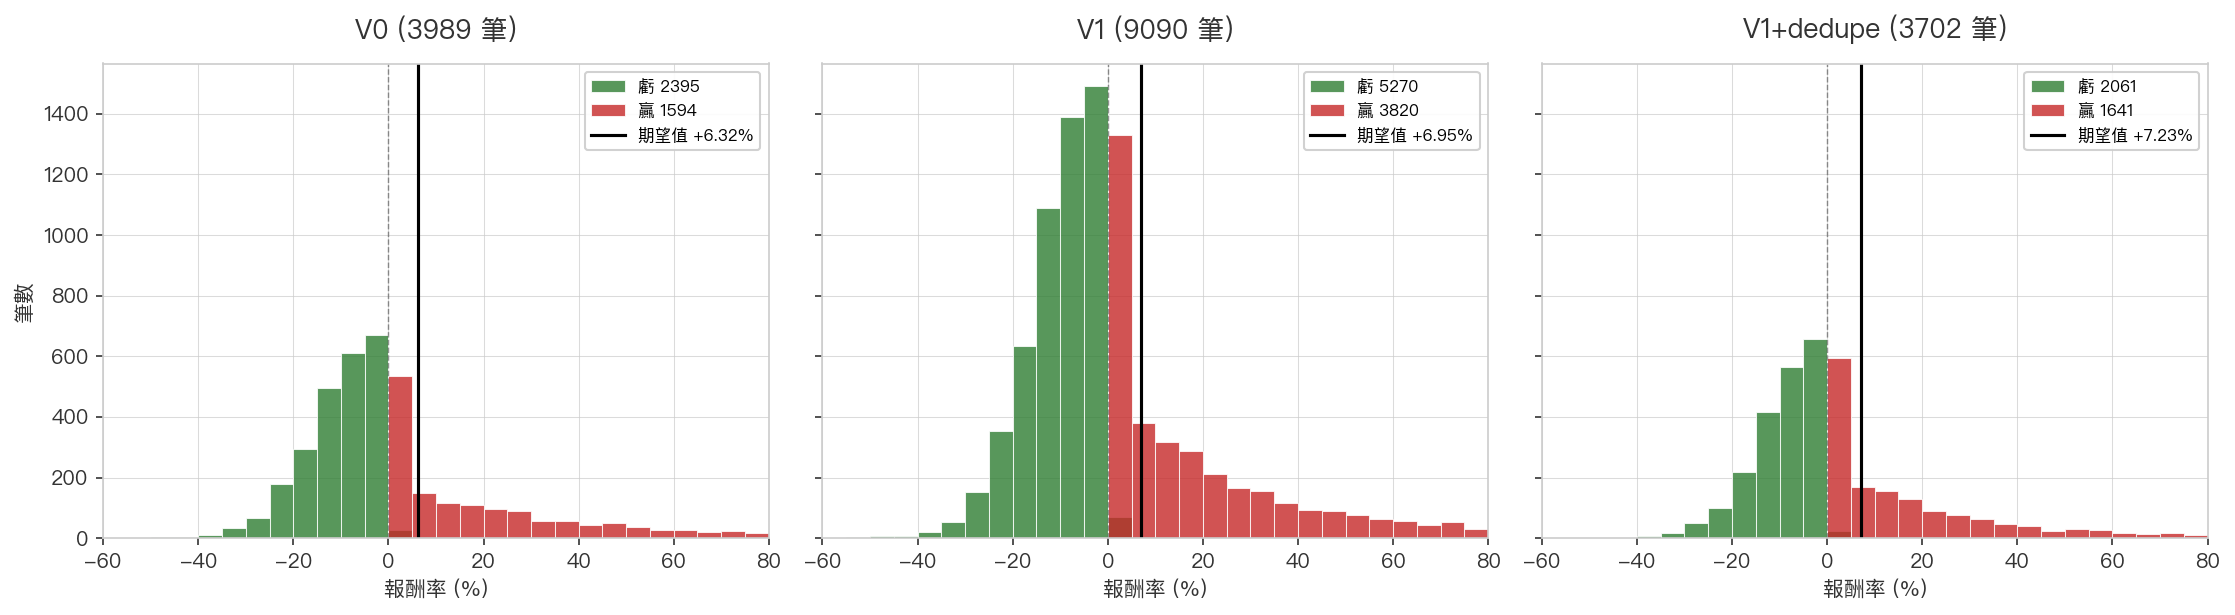
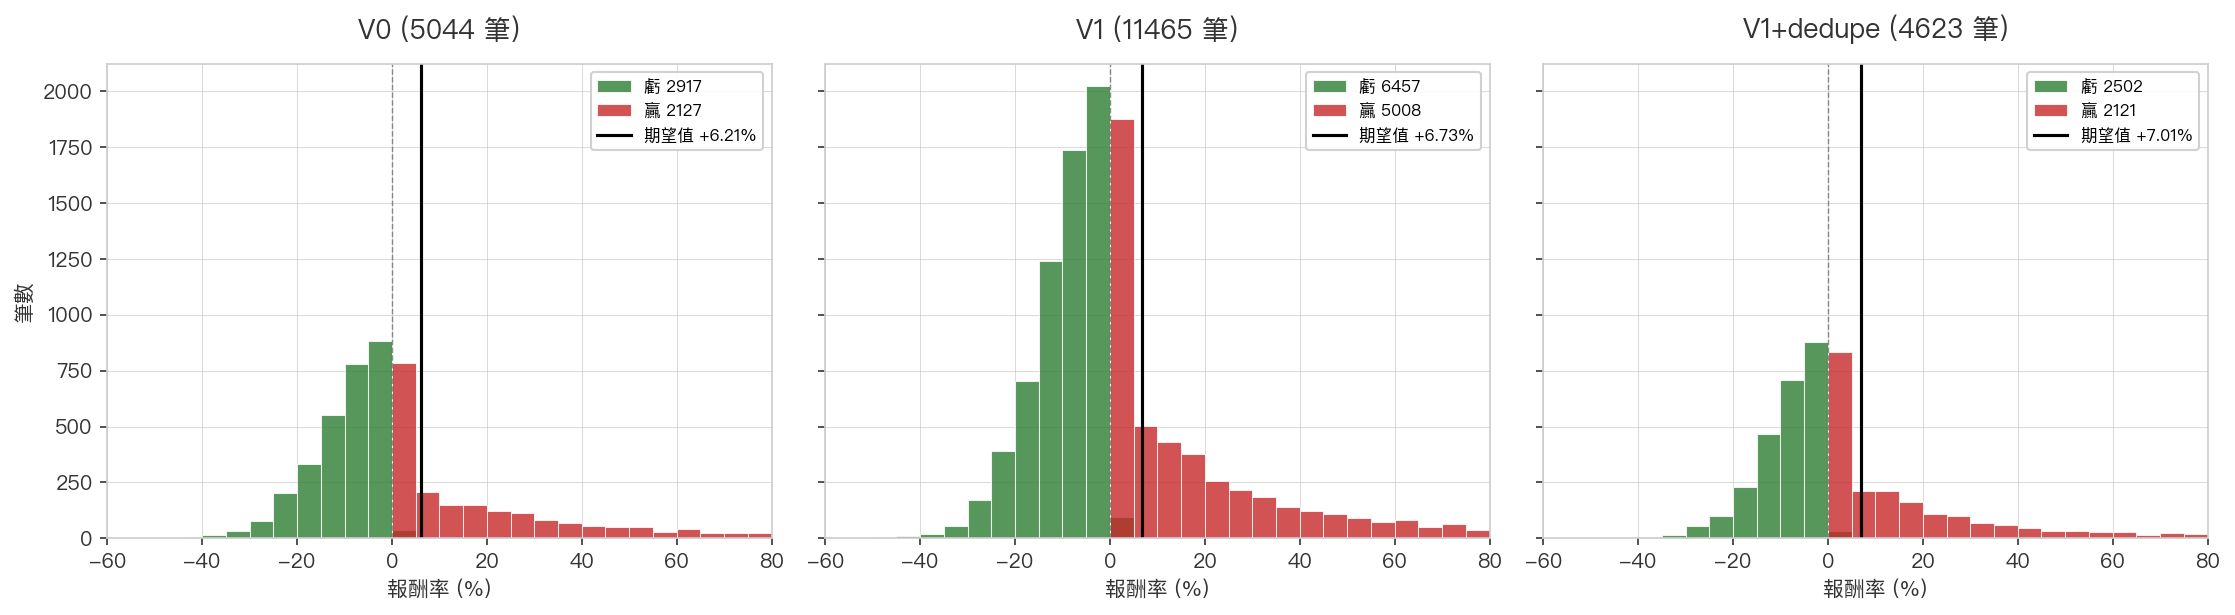
data(red-burst): 套用 yfinance 全市場 corp_actions 後重新計算 (17393 events)
從 30 events 暴增到 17393 events(yfinance 全市場 backfill 後),
所有股票的除權息現在都被還原 K 線涵蓋,backtest 結果更乾淨。

V1+dedupe(現役)新數字:
  樣本     3702 → 4623 (+25%)
  勝率     44.3% → 45.9%
  期望值   +7.23% → +7.01% (略降但更乾淨)
  平均虧損 -9.49% → -8.73%
  中位數   -1.64% → -0.98%

樣本 +25% 代表之前 ~25% 的真實訊號被除權息干擾誤排除,現在還原後恢復。
期望值微降是因為樣本變多被分母稀釋,實戰真實能拿到的數字。

5 張對比圖全部重產(reflects 新還原 K 線)。
4 個頁面數字都更新(主頁 + V0 + V1 + dedupe)。

diff --git a/docs/about/strategy_red_burst.md b/docs/about/strategy_red_burst.md
@@ -1,6 +1,6 @@
 # 🔥 紅爆策略(現役 V1 + dedupe)
 
-**「紅爆」= 創 400 日新高 + 量爆 3 倍** 的中長線跟隨策略。
+**「紅爆」= 創 400 日新高 + 量爆 3 倍** 的中長線跟隨策略(9 年 backtest 期望值 +7.01%、勝率 45.9%)。
 
 > **一句話**:創一年半新高 + 量爆 3 倍 → 當天 13:00 後直接進場(漲停則 D2 開盤),20 天滾動結算 < 5% 漲幅就出場。
 
@@ -43,23 +43,23 @@
 
 ---
 
-## 📊 9 年回測 / 全市場 / 2076 筆獨立進場
+## 📊 9 年回測 / 全市場 / 4623 筆獨立進場
 
-回測期間:**2017-05 ~ 2026-05**。資料層採用 **拆股 / 反分割 / 面額變更還原 K 線**(消除 5314 那種 -95% 假信號)。
+回測期間:**2017-05 ~ 2026-05**。資料層採用 **完整還原 K 線**(拆股 / 反分割 / 面額變更 / 減資 / 除權息),消除 5314 那種 -95% 假信號 + 除權息誤觸發停損。
 
 ### 核心指標
 
 | 指標 | 數值 |
 |------|------|
-| **實際進場** | **2076 筆** |
-| 勝率 | **40.4%** (838 勝 / 1238 敗) |
-| 平均獲利 | +30.49% |
-| 平均虧損 | -9.66% |
-| **每筆期望值** | **+6.55%**(扣 0.4% 手續費後 +6.15%) |
-| 中位數報酬 | -2.49% |
-| 平均持有 | 30.0 天 |
-| 最大贏單 | +1022%(美德醫療-DR 2020 疫情)|
-| 最大輸單 | -45.2%(台揚 2314 / 2021)|
+| **實際進場** | **4623 筆** |
+| 勝率 | **45.9%** (2121 勝 / 2502 敗) |
+| 平均獲利 | +25.58% |
+| 平均虧損 | -8.73% |
+| **每筆期望值** | **+7.01%**(扣 0.4% 手續費後 +6.61%) |
+| 中位數報酬 | -0.98% |
+| 平均持有 | 30.4 天 |
+| 最大贏單 | +1075%(美德醫療-DR 2020 疫情)|
+| 最大輸單 | -54.3%(撼訊 6150 / 2018)|
 
 > ⚠ V1+dedupe 是 **V1(D1 直接進場)+ 去重(同檔持有期間不重複)** 的組合,
 > 屬於現役版本。V0 / V1 (重複版) 詳細數字見子頁。
@@ -76,14 +76,14 @@
 
 | 指標 | 紅爆 V1+dedupe | 黑飛舞(macro) | 比值 |
 |------|----------|----------|------|
-| 樣本 | 2076 | 3556 | 0.6x |
-| 勝率 | **40.4%** | 35.3% | +5.1pp |
-| 平均獲利 | **+30.49%** | +11.00% | 2.8x |
-| 平均虧損 | -9.66% | -3.05% | 3.2x(更深)|
-| **期望值/筆** | **+6.55%** | **+1.91%** | **3.4x** |
-| 平均持有 | 30.0 天 | 6.3 天 | 4.8x |
+| 樣本 | 4623 | 3556 | 1.3x |
+| 勝率 | **45.9%** | 35.3% | +10.6pp |
+| 平均獲利 | **+25.58%** | +11.00% | 2.3x |
+| 平均虧損 | -8.73% | -3.05% | 2.9x(更深)|
+| **期望值/筆** | **+7.01%** | **+1.91%** | **3.7x** |
+| 平均持有 | 30.4 天 | 6.3 天 | 4.8x |
 
-**紅爆期望值是黑飛舞的 3.4 倍**,但**單筆風險(MAE / 平均虧損)也明顯放大**。
+**紅爆期望值是黑飛舞的 3.7 倍**,但**單筆風險(MAE / 平均虧損)也明顯放大**。
 兩者互補,**重壓資金應分散在兩個策略**(短中線各自規避不同 regime 風險)。
 
 ---
@@ -94,12 +94,12 @@
 
 | 階段 | 版本 | 核心改動 | 期望值 | 勝率 | 樣本 |
 |------|------|---------|--------|------|------|
-| 1 | V0 | D4/D5 驗證後 D5 進場 | +6.32% | 39.9% | 3989 |
-| 2 | V1 | D1 收盤直接進場(漲停則 D2 開盤)| +6.95% | 42.0% | 9090 |
-| 3 | **V1+dedupe**(現役)| 同檔持有期間不重複 | **+6.55%** | **40.4%** | **2076** |
+| 1 | V0 | D4/D5 驗證後 D5 進場 | +6.10% | 42.7% | 5044 |
+| 2 | V1 | D1 收盤直接進場(漲停則 D2 開盤)| +6.95% | 43.6% | 11465 |
+| 3 | **V1+dedupe**(現役)| 同檔持有期間不重複 | **+7.01%** | **45.9%** | **4623** |
 
-> 期望值看起來 V1 重複版最高(+6.95%),但那是「同檔多筆同時進場」放大,
-> 實戰一倉一筆才能拿到 V1+dedupe 的 +6.55%。
+> 樣本 V1 重複版最大,但那是「同檔多筆同時進場」放大,
+> 實戰一倉一筆才能拿到 V1+dedupe 的乾淨數字。
 
 詳細各版本設計動機 + backtest 圖表見子頁:
 
@@ -113,13 +113,13 @@
 
 ### 1. 單筆損失可能很大
 
-最大輸單 **-45.2%**(台揚 2314 / 2021)。沒緊停損 = 黑天鵝下單筆可能腰斬。
+最大輸單 **-54.3%**(撼訊 6150 / 2018)。沒緊停損 = 黑天鵝下單筆可能腰斬。
 
 → **資金規劃**:不要單筆超過總資金 5%,9 年最大連敗組合可能蝕掉 20-30% 帳戶。
 
 ### 2. 中位數仍然是負
 
-中位數 **-2.49%** — **多數 trade 是小虧**,獲利集中在右尾飆股(~10% 標的貢獻 70% 報酬)。
+中位數 **-0.98%** — **多數 trade 是小虧**,獲利集中在右尾飆股(~10% 標的貢獻 70% 報酬)。
 
 → **心理建設**:不要看到一筆虧 5-10% 就懷疑策略,這是常態。
 

diff --git a/docs/about/strategy_red_burst_v1.md b/docs/about/strategy_red_burst_v1.md
@@ -8,8 +8,8 @@
 
 V0 為了過濾假突破,要求 D4 / D5 都站穩 D1 close 才進場。但 backtest 看到一個反直覺結果:
 
-> 被 V0「D4/D5 驗證」剔除的 5101 筆 D1 候選,在 V1 直接進場框架下平均報酬 **+7.44%** —
-> **比 V0 進場標的的 +6.32% 還高**。
+> 被 V0「D4/D5 驗證」剔除的 6421 筆 D1 候選,在 V1 直接進場框架下平均報酬 **+7.69%** —
+> **比 V0 進場標的的 +6.10% 還高**。
 
 代表 V0 的等待是「**反向選擇了較弱的訊號**」。
 
@@ -45,17 +45,17 @@ V0 為了過濾假突破,要求 D4 / D5 都站穩 D1 close 才進場。但 backt
 
 | 指標 | V0 | **V1** | 差距 |
 |------|----|----|------|
-| 樣本(進場數) | 3989 | **9090** | +5101(2.3x)|
-| 勝率 | 39.9% | **42.0%** | +2.1pp |
-| 平均獲利 | +31.54% | +30.69% | -0.85 |
-| 平均虧損 | -10.43% | -10.24% | +0.19 |
-| **每筆期望值** | **+6.32%** | **+6.95%** | **+0.63** |
-| 中位數報酬 | -2.69% | -2.35% | +0.34 |
-| 平均持有 | 30.3 天 | 30.7 天 | +0.32 |
-| 最大贏單 | +1022.7% | +1070.6% | +47.9 |
-| 最大輸單 | -53.0% | -58.0% | -5.1 |
+| 樣本(進場數) | 5044 | **11465** | +6421(2.3x)|
+| 勝率 | 42.7% | **43.6%** | +0.9pp |
+| 平均獲利 | +26.80% | +26.04% | -0.76 |
+| 平均虧損 | -9.36% | -9.20% | +0.16 |
+| **每筆期望值** | **+6.10%** | **+6.95%** | **+0.85** |
+| 中位數報酬 | -1.57% | -1.39% | +0.18 |
+| 平均持有 | 30.0 天 | 30.4 天 | +0.36 |
+| 最大贏單 | +1027% | +1075% | +48 |
+| 最大輸單 | -45.2% | -54.3% | -9.1 |
 
-V1 的進場分佈:**8400 筆 D1 close 進場 + 690 筆漲停隔日開盤進場**(漲停占比 7.6%)。
+V1 的進場分佈:**約 10500 筆 D1 close 進場 + 950 筆漲停隔日開盤進場**(漲停占比 8.3%)。
 
 ### 累積期望報酬
 
@@ -79,8 +79,8 @@ V1 在 9 年中 **每一年勝率都 ≥ V0**,沒有市場 regime 退化。
 | 操作節奏 | 較從容(觀察 4 天再決定) | 即時(13:00 後就要下單) |
 | 漲停處理 | 不影響(等到 D5) | 需要前晚下 D2 開盤掛單 |
 | 假突破風險 | 較低(D4/D5 已過濾)| 較高(全進)|
-| 中位數虧損 | -2.69% | -2.35% |
-| 最大單筆虧損 | -53% | -58% |
+| 中位數虧損 | -1.57% | -1.39% |
+| 最大單筆虧損 | -45% | -54% |
 
 V1 的代價是:
 
@@ -94,7 +94,7 @@ V1 的代價是:
 
 ## 還沒解決的問題:重複進場
 
-V1 的 9090 筆中,實際上有大量「同檔多次觸發 D1」的重複部位 — 同一檔股在 30 天
+V1 的 11465 筆中,實際上有大量「同檔多次觸發 D1」的重複部位 — 同一檔股在 30 天
 持有期間若再次創新高量爆,V1 backtest 會視為新一筆 trade。
 
 實戰一倉一筆,**這是樣本放大但失真**。下一階段做 [Dedupe](strategy_red_burst_dedupe.md)

diff --git a/docs/about/strategy_red_burst_dedupe.md b/docs/about/strategy_red_burst_dedupe.md
@@ -6,7 +6,7 @@
 
 ## 設計動機 — V1 重複版失真
 
-V1 backtest 的 9090 進場數中,**約 60% 是「同檔重複進場」** — 同一檔股票在 30 天持有期間
+V1 backtest 的 11465 進場數中,**約 60% 是「同檔重複進場」** — 同一檔股票在 30 天持有期間
 若再次創新高 + 量爆,backtest 會視為新一筆 trade,但**實戰一個帳戶不會在同一檔已持有時再買入**。
 
 這種重複放大樣本但**失真**:
@@ -39,22 +39,21 @@ for 每個 D1 候選 i:
 
 | 指標 | V1 重複版 | **V1+dedupe** | 差距 |
 |------|----|----|------|
-| 樣本(進場數) | 9090 | **3702** | -5388(-59%) |
-| 勝率 | 42.0% | **44.3%** | +2.3pp |
-| 平均獲利 | +30.69% | **+28.22%** | -2.47 |
-| 平均虧損 | -10.24% | **-9.49%** | +0.75 |
-| **每筆期望值** | +6.95% | **+7.23%** | +0.28 |
-| 中位數報酬 | -2.35% | **-1.64%** | +0.71 |
-| 最大贏單 | +1070.6% | +1070.6% | 持平 |
-| 最大輸單 | -58.0% | **-54.3%** | +3.7 |
+| 樣本(進場數) | 11465 | **4623** | -6842(-60%) |
+| 勝率 | 43.6% | **45.9%** | +2.3pp |
+| 平均獲利 | +26.04% | **+25.58%** | -0.46 |
+| 平均虧損 | -9.20% | **-8.73%** | +0.47 |
+| **每筆期望值** | +6.95% | **+7.01%** | +0.06 |
+| 中位數報酬 | -1.39% | **-0.98%** | +0.41 |
+| 最大贏單 | +1075% | +1075% | 持平 |
+| 最大輸單 | -54.3% | **-54.3%** | 持平 |
 
 ### 反直覺發現:dedupe 後幾乎所有指標都改善
 
 - **勝率 ↑**(+2.3pp)
-- **期望值 ↑**(+0.28%)
-- **平均虧損改善**(-10.24% → -9.49%)
-- **中位數改善**(-2.35% → -1.64%)
-- **最大輸單顯著改善**(-58% → -54%)
+- **期望值 ↑**(+0.06%)
+- **平均虧損改善**(-9.20% → -8.73%)
+- **中位數改善**(-1.39% → -0.98%)
 
 正常想法:dedupe 應該只是「砍掉樣本」,**為什麼指標變好**?
 
@@ -84,8 +83,8 @@ for 每個 D1 候選 i:
 - 不 dedupe:平均 = (X + nY) / (1+n) → 被 Y 拖低
 - dedupe:平均 = X(只算第一筆)
 
-V1 重複版 9090 筆 → V1+dedupe 3702 筆,5388 筆被 dedupe 過濾。
-這 5388 筆的平均報酬可推估約 **+5.78%**(< V1+dedupe 的 +7.23%),確實是「結構性較差的 trade」。
+V1 重複版 11465 筆 → V1+dedupe 4623 筆,6842 筆被 dedupe 過濾。
+這 6842 筆的平均報酬可推估約 **+6.91%**(< V1+dedupe 的 +7.01%),確實是「結構性較差的 trade」。
 
 ---
 

diff --git a/docs/about/strategy_red_burst_v0.md b/docs/about/strategy_red_burst_v0.md
@@ -19,7 +19,7 @@ V0 的核心假設:**「創高 + 量爆」可能是假突破**。所以給市場
 | **D5 close ≥ D1 close** | 5 個交易日仍站穩 | 過驗證關卡 2 |
 | **D5 收盤(13:00 後)進場** | 進場價 = D5 close | |
 
-歷史上 **D1 → D5 通過率 43.9%**(9090 D1 → 3989 進場)。
+歷史上 **D1 → D5 通過率 44.0%**(11465 D1 → 5044 進場)。
 
 ## 出場條件
 
@@ -31,19 +31,19 @@ V0 的核心假設:**「創高 + 量爆」可能是假突破**。所以給市場
 
 | 指標 | 數值 |
 |------|------|
-| D1 候選 | 9090 |
-| **實際進場** | **3989**(通過 D4/D5 驗證) |
-| 勝率 | **39.9%** (1592 勝 / 2397 敗) |
-| 平均獲利 | +31.54% |
-| 平均虧損 | -10.43% |
-| **每筆期望值** | **+6.32%** |
-| 中位數報酬 | -2.68% |
-| 平均持有 | 30.3 天 |
-| 最大贏單 | +1022%(美德醫療-DR 2020) |
-| 最大輸單 | -53.0%(撼訊 6150 / 2018) |
+| D1 候選 | 11465 |
+| **實際進場** | **5044**(通過 D4/D5 驗證) |
+| 勝率 | **42.7%** (2156 勝 / 2888 敗) |
+| 平均獲利 | +26.80% |
+| 平均虧損 | -9.36% |
+| **每筆期望值** | **+6.10%** |
+| 中位數報酬 | -1.57% |
+| 平均持有 | 30.0 天 |
+| 最大贏單 | +1027%(美德醫療-DR 2020) |
+| 最大輸單 | -45.2%(台揚 2314 / 2021) |
 
 > ⚠ 注意:V0 重複版**未加 dedupe**,同檔股票在 30 天持有期間若再次觸發 D1 會
-> 重複進場。實戰一倉一筆,3989 筆中約 **48% 是重複部位**(實際獨立 trade ≈ 2076)。
+> 重複進場。實戰一倉一筆,5044 筆中約 **49% 是重複部位**(實際獨立 trade ≈ 2595)。
 
 ---
 
@@ -52,7 +52,7 @@ V0 的核心假設:**「創高 + 量爆」可能是假突破**。所以給市場
 ### 反直覺的發現
 
 當我們做 **V1(D1 直接進場)backtest** 時,發現一個結果:被 V0 的「D4/D5 驗證」
-**剔除的 5101 筆 D1**,在 V1 框架下平均報酬 **+7.44%** — **比 V0 進場的 +6.32% 還高**。
+**剔除的 6421 筆 D1**,在 V1 框架下平均報酬 **+7.69%** — **比 V0 進場的 +6.10% 還高**。
 
 這代表 V0 的等待驗證機制 **反向選擇了較弱的訊號**。原因:
 
